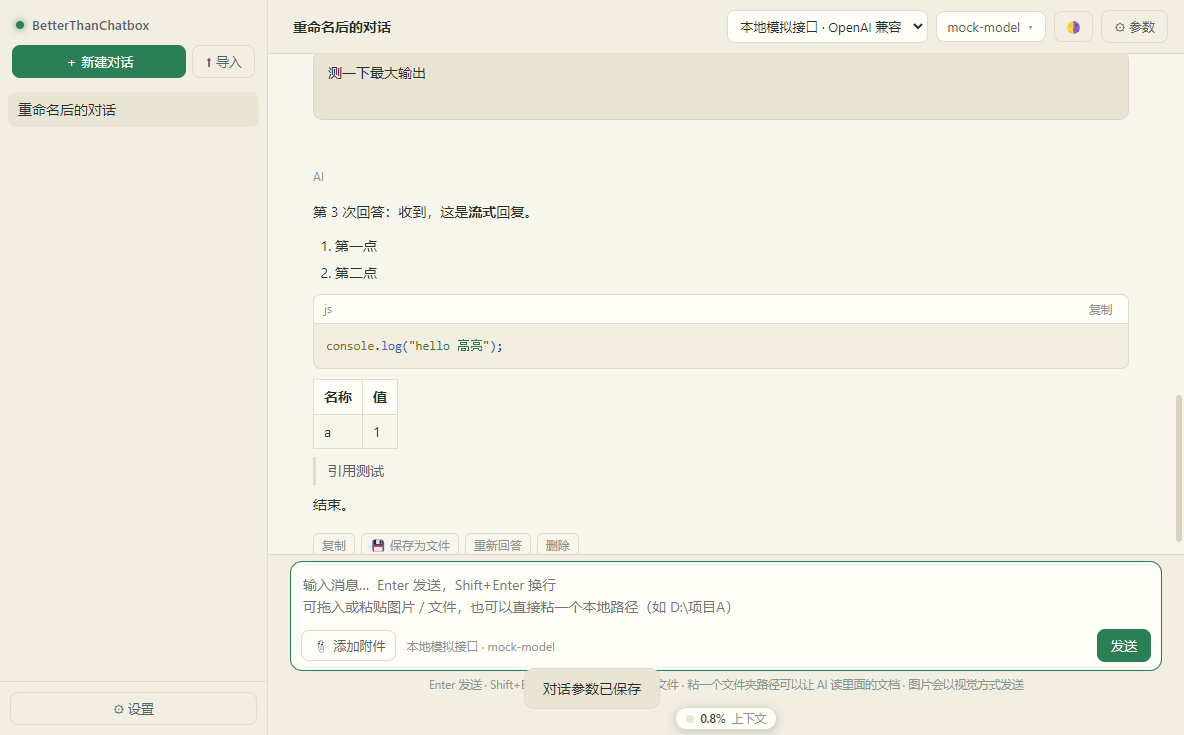
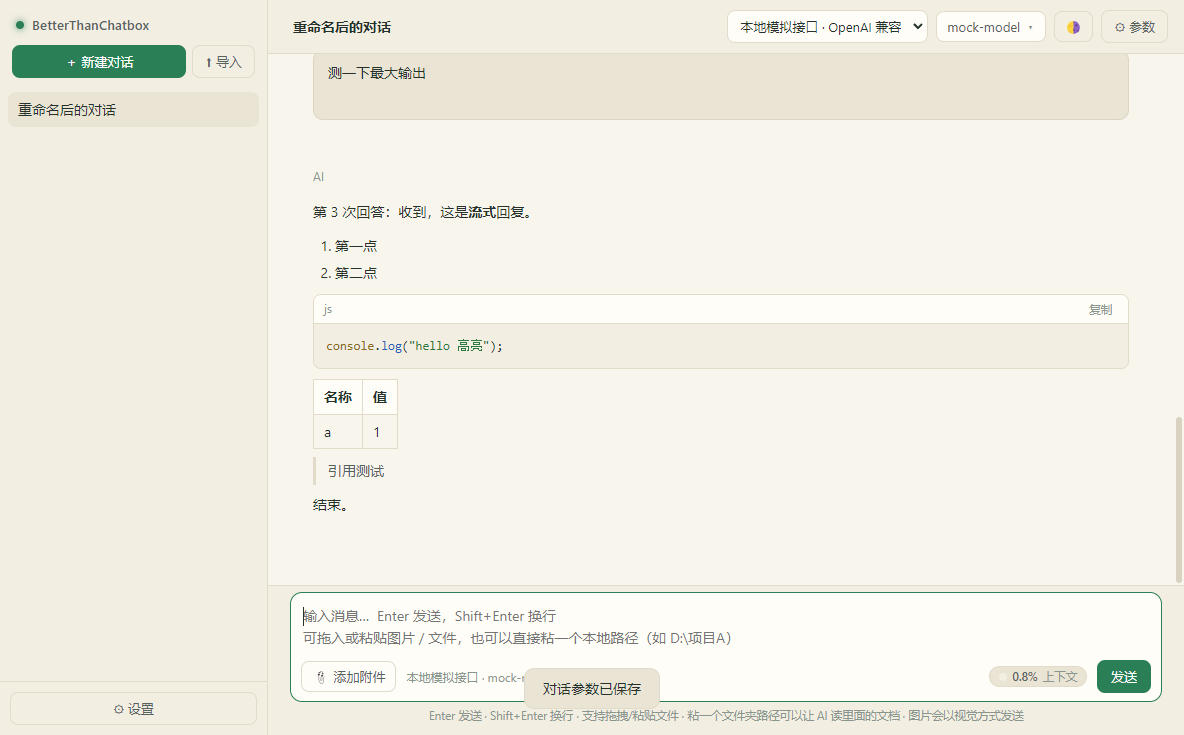
修：灵动岛再挪一次 —— 收进输入框工具条，放在「发送」按钮左边
用户要求：改到对话框内、发送按钮左边。

- index.html：灵动岛从「输入框下方」移进 .composer-bar，紧跟 #btn-send 之前
- styles.css：
  · 不再是一整行居中，改成工具条里的一个小胶囊（flex-shrink:0 防止被 hint 挤没）
  · 胶囊底色改用 --bg-4、文字 --text-dim，和旁边的「📎 添加附件」同一行风格
  · 展开面板改成贴右边（right:0）向上弹出，避免在窗口右侧溢出
- 面板竖直位置仍是实测控制的：量「胶囊顶边 - 输入框顶边」的距离再抬高，
  所以面板停在输入框上方，不会盖住正在打字的区域

测试（e2e:context 36 项，几何断言全部重写为新位置）
- 灵动岛在 #composer 内部（用 closest('#composer') 判定，并校验矩形落在输入框内）
- 位置在「发送」按钮左边、且两个矩形不相交
- 仍然不与顶栏的模型下拉按钮重叠
- 展开面板完整在窗口内、且停在输入框上方
实机数字：胶囊 x=998~1087 / y=666~687；发送按钮 x=1097~1151（间距 10px = 工具条 gap）；
面板 y=418~609、底边 609 < 输入框顶边 615

顺带纠正一次我自己的误判
- 截图复核时我先裁出一小块看，结果是纯白，一度以为胶囊没渲染。
  实际是用应用自己报的 computed style 排除掉：背景 rgb(234,228,212)、文字 rgb(138,149,142)、
  visibility:visible、inline 尺寸 89x21 都正常；而且同一张图按区域扫描能看到
  米色胶囊紧挨着绿色「发送」按钮。是我截图截早了（contextInfo 是异步的）＋裁剪路径有问题，
  不是产品问题。截图脚本已改成「等胶囊渲染出来再拍」

回归：13 个单元测试全过 / smoke:pkg 97 项 0 异常 / e2e 七个（23+27+21+21+16+11+36）全过

Changed region(s): [[0.25, 0.7184, 1.0, 1.0], [0.9688, 0.7483, 1.0, 0.8082], [0.9688, 0.5388, 1.0, 0.5687]]

diff --git a/app/renderer/styles.css b/app/renderer/styles.css
@@ -483,40 +483,37 @@ input, textarea, select { font-family: inherit; font-size: 13px; color: var(--te
 }
 .msg-summary .msg-head span:first-child { color: var(--accent-hover); }
 
-/* ---------- 上下文「灵动岛」：在输入框下面，平时一个小胶囊，点开才展开 ---------- */
-/* 位置说明：以前浮在消息区顶部，会和顶栏的模型下拉按钮撞在一起（用户反馈），
-   现在放在输入框下方、贴着窗口底部；展开面板向上弹出，不会顶开内容。 */
+/* ---------- 上下文「灵动岛」：在输入框里、发送按钮左边，点开才展开 ---------- */
+/* 位置沿革：先浮在消息区顶部（会撞上顶栏的模型下拉），后移到输入框下方，
+   现在收进输入框工具条里、紧挨「发送」按钮左边。展开面板向上弹出、停在输入框上方。 */
 .ctx-island {
   position: relative; z-index: 30;
-  display: flex; justify-content: center; align-items: center;
-  min-height: 26px; padding: 3px 22px 5px;
-  background: var(--bg-2);
-  font-size: 11.5px; color: var(--text-dim);
+  display: flex; align-items: center;
+  flex-shrink: 0;                  /* 别被 hint 挤没 */
+  font-size: 11.5px; color: var(--text-mute);
 }
 .ctx-pill {
-  display: flex; align-items: center; gap: 6px;
-  padding: 3px 10px; border-radius: 999px;
-  background: var(--bg-3); border: 1px solid var(--line);
-  box-shadow: 0 2px 10px rgba(0,0,0,.18);
+  display: flex; align-items: center; gap: 5px;
+  padding: 2px 9px; border-radius: 999px;
+  background: var(--bg-4); border: 1px solid var(--line);
   cursor: pointer; user-select: none; white-space: nowrap;
 }
 .ctx-pill:hover { border-color: var(--accent); color: var(--text); }
 .ctx-pill .pill-dot {
-  width: 8px; height: 8px; border-radius: 50%; background: var(--accent); flex-shrink: 0;
+  width: 8px; height: 8px; border-radius: 50%; flex-shrink: 0;
   /* 用 conic-gradient 画一个环形进度，看起来像灵动岛的指示 */
-  background: conic-gradient(var(--accent) calc(var(--pct, 0) * 1%), var(--bg-4) 0);
+  background: conic-gradient(var(--accent) calc(var(--pct, 0) * 1%), var(--bg-2) 0);
 }
-.ctx-pill .pill-pct { color: var(--text); font-weight: 500; }
+.ctx-pill .pill-pct { color: var(--text-dim); font-weight: 500; }
 .ctx-pill .pill-extra { color: var(--text-mute); }
-.ctx-island.mid .pill-dot { background: conic-gradient(#d9a441 calc(var(--pct, 0) * 1%), var(--bg-4) 0); }
-.ctx-island.high .pill-dot { background: conic-gradient(var(--danger) calc(var(--pct, 0) * 1%), var(--bg-4) 0); }
+.ctx-island.mid .pill-dot { background: conic-gradient(#d9a441 calc(var(--pct, 0) * 1%), var(--bg-2) 0); }
+.ctx-island.high .pill-dot { background: conic-gradient(var(--danger) calc(var(--pct, 0) * 1%), var(--bg-2) 0); }
 .ctx-island.high .pill-pct { color: var(--danger-text); }
 .ctx-island.high .ctx-pill { border-color: var(--danger); }
 .ctx-island.compressed .ctx-pill { border-style: dashed; }
 
 .ctx-panel {
-  position: absolute; left: 50%; transform: translateX(-50%);
-  bottom: calc(100% + 6px);            /* 向上展开，盖在消息区上，不推挤布局 */
+  position: absolute; right: 0; bottom: calc(100% + 8px);
   width: 320px; max-width: 76vw; max-height: 44vh; overflow: auto;
   background: var(--bg-3); border: 1px solid var(--line); border-radius: 12px;
   box-shadow: 0 8px 28px rgba(0,0,0,.28);

diff --git a/scripts/context-e2e-driver.js b/scripts/context-e2e-driver.js
@@ -131,29 +131,34 @@ module.exports = async function contextE2E(win, app) {
     check('胶囊很小，不占主界面地方', !!pill && pill.rect && pill.rect.h <= 32 && pill.rect.w <= 160,
       JSON.stringify(pill && pill.rect));
 
-    // 用户反馈过：灵动岛原来浮在消息区顶部，和顶栏的模型下拉按钮叠在一起。
-    // 现在移到输入框下面，这里量真实坐标把它钉住。
+    // 用户反馈过两次位置问题（先撞顶栏模型下拉、要求下移；再要求收进输入框）。
+    // 这里量真实坐标把最终位置钉住：在输入框里、发送按钮左边。
     const geom = await js(`(() => {
       const r = (sel) => { const e = document.querySelector(sel); if (!e) return null; const b = e.getBoundingClientRect(); return { x: b.x, y: b.y, w: b.width, h: b.height, bottom: b.bottom, right: b.right }; };
       const inter = (a, b) => !!a && !!b && a.x < b.right && b.x < a.right && a.y < b.bottom && b.y < a.bottom;
+      const island = document.querySelector('#ctx-island');
       const pillR = r('#ctx-island .ctx-pill');
       const model = r('#model-picker') || r('#conn-select');
       const composer = r('#composer');
-      const tip = r('.composer-tip');
+      const send = r('#btn-send');
       return {
-        pill: pillR, model, composer, tip,
+        pill: pillR, model, composer, send,
+        inComposer: !!(island && composer &&
+          island.closest('#composer') === document.querySelector('#composer')),
+        leftOfSend: !!(pillR && send && pillR.right <= send.x + 1),
+        overlapsSend: inter(pillR, send),
         overlapsModel: inter(pillR, model),
-        belowComposer: !!(pillR && composer && pillR.y >= composer.y),
-        belowTip: !!(pillR && tip && pillR.y >= tip.y - 2),
-        nearBottom: !!(pillR && pillR.bottom <= window.innerHeight + 1 && pillR.bottom > window.innerHeight - 120),
+        insideComposer: !!(pillR && composer &&
+          pillR.x >= composer.x && pillR.right <= composer.right &&
+          pillR.y >= composer.y && pillR.bottom <= composer.bottom),
       };
     })()`);
+    check('灵动岛在输入框内部', geom && geom.inComposer === true && geom.insideComposer === true,
+      JSON.stringify({ inComposer: geom && geom.inComposer, pill: geom && geom.pill, composer: geom && geom.composer }));
+    check('位置在「发送」按钮左边', geom && geom.leftOfSend === true && geom.overlapsSend === false,
+      JSON.stringify({ pill: geom && geom.pill, send: geom && geom.send }));
     check('不会和顶栏的模型下拉按钮重叠', geom && geom.overlapsModel === false,
       JSON.stringify({ pill: geom && geom.pill, model: geom && geom.model }));
-    check('位置在输入框下方', geom && geom.belowComposer === true,
-      JSON.stringify({ pill: geom && geom.pill, composer: geom && geom.composer }));
-    check('在窗口底部（不是飘在消息区上方）', geom && geom.nearBottom === true,
-      JSON.stringify(geom && geom.pill));
 
     const opened = await js(`(() => {
       document.querySelector('#ctx-island .ctx-pill').click();

diff --git a/app/renderer/index.html b/app/renderer/index.html
@@ -49,14 +49,13 @@
           <div class="composer-bar">
             <button id="btn-attach" class="icon-btn" title="添加图片或文件">📎 添加附件</button>
             <span class="hint" id="hint"></span>
+            <!-- 上下文「灵动岛」：就在发送按钮左边，点一下展开详情 -->
+            <div id="ctx-island" class="ctx-island hidden"></div>
             <button id="btn-send" class="primary-btn">发送</button>
           </div>
         </div>
         <div class="composer-tip">Enter 发送 · Shift+Enter 换行 · 支持拖拽/粘贴文件 · 粘一个文件夹路径可以让 AI 读里面的文档 · 图片会以视觉方式发送</div>
       </div>
-
-      <!-- 上下文「灵动岛」：放在输入框下面，平时就是一个小胶囊，点一下才展开详情 -->
-      <div id="ctx-island" class="ctx-island hidden"></div>
     </main>
   </div>
 

diff --git a/README.md b/README.md
@@ -383,10 +383,11 @@ python scripts\make-office-fixtures.py test-fixtures\office
 
 ## 上下文用量与压缩（灵动岛）
 
-上下文相关的东西**不占主界面**：收成输入框下方的一个小胶囊（灵动岛），点一下才展开。
+上下文相关的东西**不占主界面**：收成输入框里「发送」按钮左边的一个小胶囊（灵动岛），点一下才展开。
 
-> 位置说明：一开始它浮在消息区顶部，会和顶栏的模型下拉按钮叠在一起，所以移到了输入框下面。
-> 展开的详情面板向上弹出、停在输入框上方，既不挡你打字，也不会跑出窗口。
+> 位置说明：一开始它浮在消息区顶部，会和顶栏的模型下拉按钮叠在一起；移到输入框下面之后仍嫌占地，
+> 现在收进输入框工具条里、紧挨「发送」按钮左边。展开的详情面板向上弹出、停在输入框上方，
+> 既不挡你打字，也不会跑出窗口。
 
 ```
          ◔ 19% 上下文            ← 平时只有这么一个小胶囊
